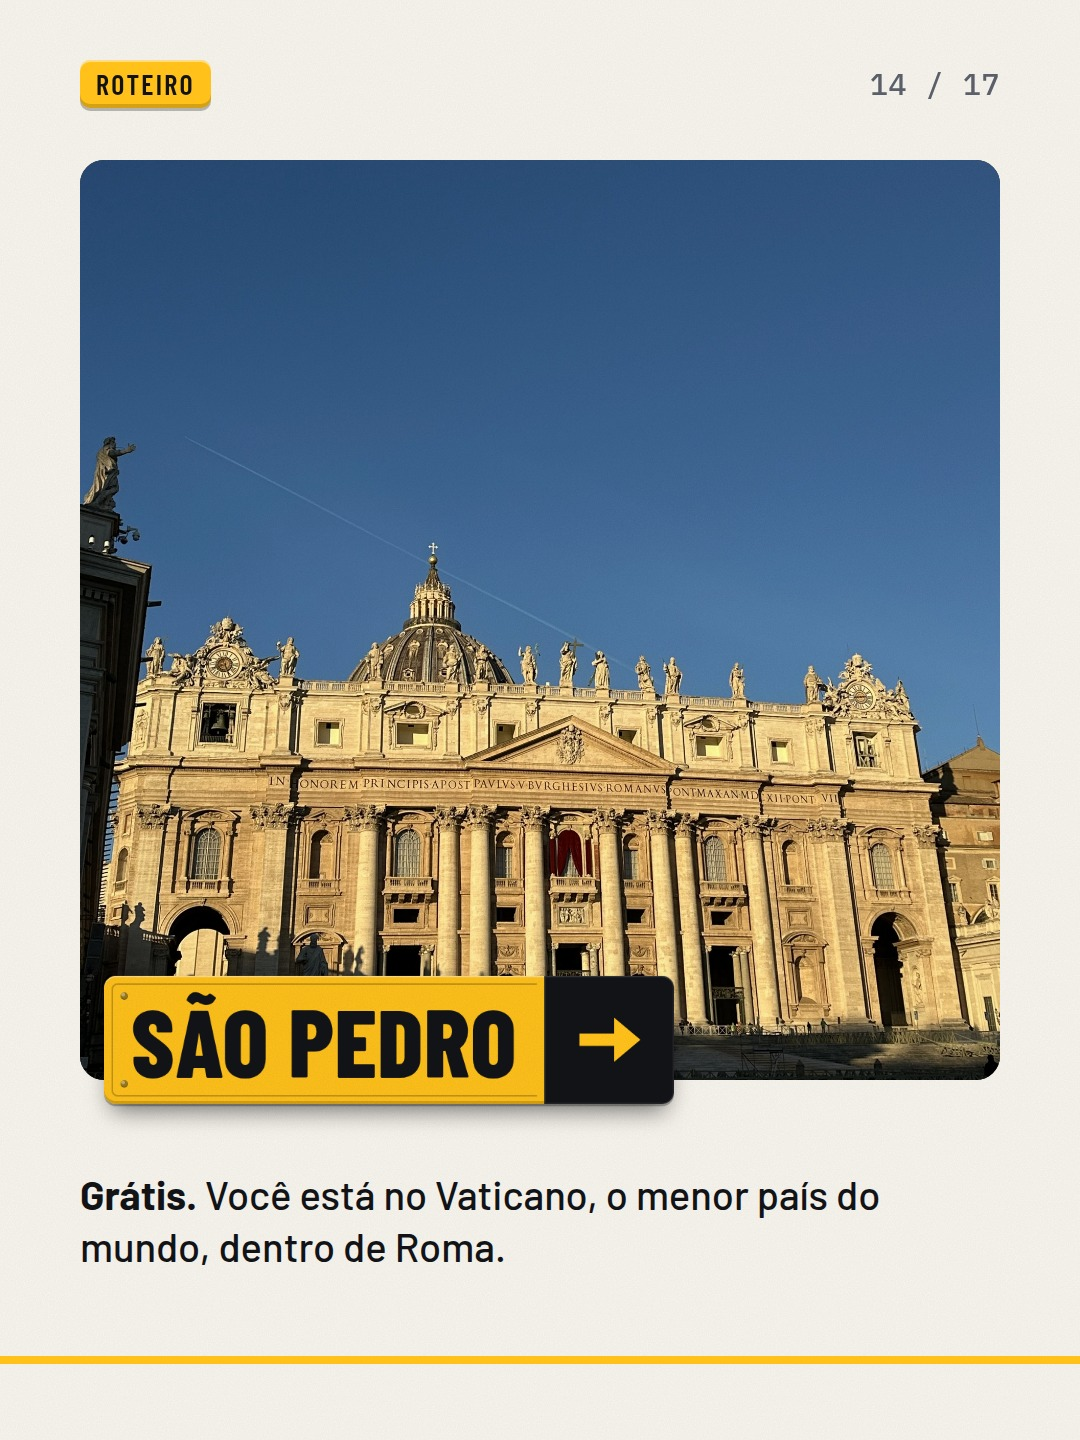
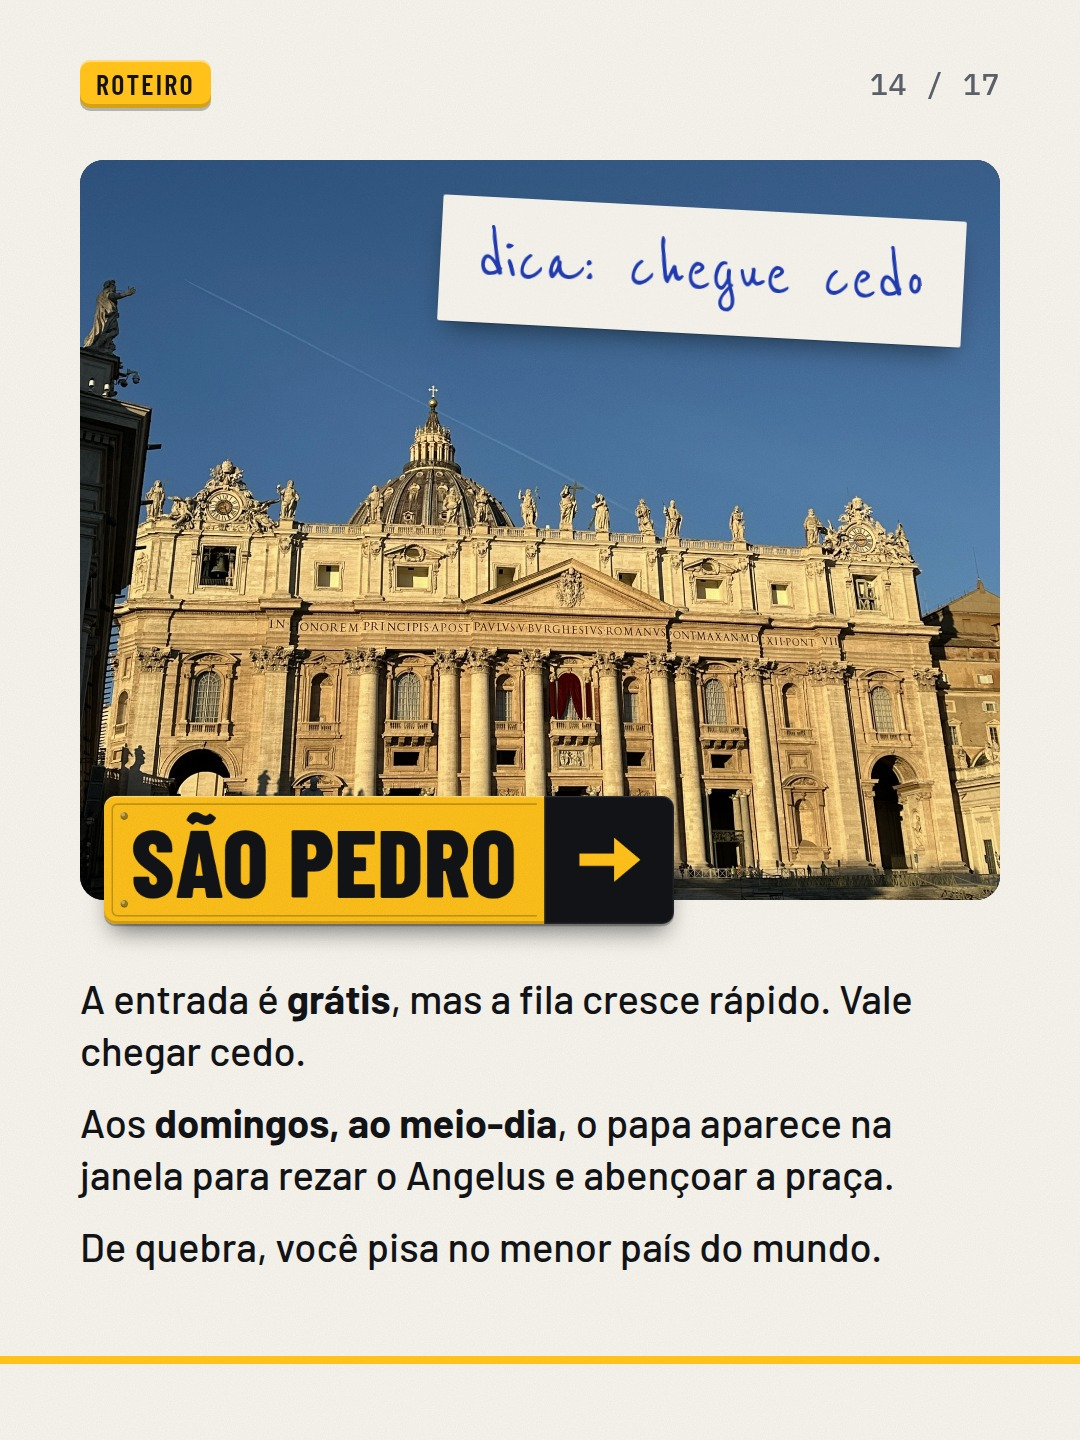
feat(carrosseis): dicas do Coliseu e do Vaticano e ajuste do símbolo 1º no Roma REV1
Claude-Session: https://claude.ai/code/session_01Py887dPkqPsegoR8ZeTqVh

diff --git a/carrosseis/roma-3-dias/rev1/slides.html b/carrosseis/roma-3-dias/rev1/slides.html
@@ -184,10 +184,10 @@ body{margin:0;background:#26292F}
 <!-- COLISEU + DICA -->
 <section class="slide pd-paper" id="s11">
   <div class="serie">Roteiro</div><div class="count">11 / 17</div>
-  <div class="photo"><img src="../fonte/coliseu_dia.jpg" style="object-position:50% 80%"></div>
+  <div class="photo" style="height:740px"><img src="../fonte/coliseu_dia.jpg" style="object-position:50% 80%"></div>
   <div class="pd-note pd-paper" style="left:400px;top:208px;z-index:25"><span class="pd-note__t">dica: compre cedo</span></div>
-  <div class="pd-plate pd-plate--one placaP"><div class="pd-plate__face"><i class="pd-rivet t"></i><i class="pd-rivet b"></i><div class="pd-plate__dest">Coliseu</div></div><div class="pd-plate__mod"><svg viewBox="0 0 100 100"><path fill="currentColor" d="M8 41h50V18l38 32-38 32V59H8z"/></svg></div></div>
-  <p class="legenda">Ingresso com arena: abre <b>7 dias antes</b>. Com subterrâneo: <b>30 dias antes</b>, e eu não consegui. Compre em colosseo.it.</p>
+  <div class="pd-plate pd-plate--one placaP" style="bottom:516px"><div class="pd-plate__face"><i class="pd-rivet t"></i><i class="pd-rivet b"></i><div class="pd-plate__dest">Coliseu</div></div><div class="pd-plate__mod"><svg viewBox="0 0 100 100"><path fill="currentColor" d="M8 41h50V18l38 32-38 32V59H8z"/></svg></div></div>
+  <p class="legenda" style="top:972px">O ingresso com arena abre <b>7 dias antes</b>. Subterrâneo e ático, o andar mais alto, abrem <b>30 dias antes</b> e esgotam rápido. Eu não consegui.<br><br>No <b>1º domingo do mês</b>, a entrada padrão é grátis, mas sem arena, subterrâneo e ático.</p>
   <div class="rota"></div><div class="grain"></div>
 </section>
 
@@ -234,9 +234,10 @@ body{margin:0;background:#26292F}
 <!-- SÃO PEDRO -->
 <section class="slide pd-paper" id="s14">
   <div class="serie">Roteiro</div><div class="count">14 / 17</div>
-  <div class="photo"><img src="../fonte/sao_pedro.jpg" style="object-position:50% 60%"></div>
-  <div class="pd-plate pd-plate--one placaP"><div class="pd-plate__face"><i class="pd-rivet t"></i><i class="pd-rivet b"></i><div class="pd-plate__dest">São Pedro</div></div><div class="pd-plate__mod"><svg viewBox="0 0 100 100"><path fill="currentColor" d="M8 41h50V18l38 32-38 32V59H8z"/></svg></div></div>
-  <p class="legenda"><b>Grátis.</b> Você está no Vaticano, o menor país do mundo, dentro de Roma.</p>
+  <div class="photo" style="height:740px"><img src="../fonte/sao_pedro.jpg" style="object-position:50% 70%"></div>
+  <div class="pd-note pd-paper" style="left:440px;top:208px;z-index:25"><span class="pd-note__t">dica: chegue cedo</span></div>
+  <div class="pd-plate pd-plate--one placaP" style="bottom:516px"><div class="pd-plate__face"><i class="pd-rivet t"></i><i class="pd-rivet b"></i><div class="pd-plate__dest">São Pedro</div></div><div class="pd-plate__mod"><svg viewBox="0 0 100 100"><path fill="currentColor" d="M8 41h50V18l38 32-38 32V59H8z"/></svg></div></div>
+  <div class="legenda" style="top:972px"><p style="margin:0 0 20px">A entrada é <b>grátis</b>, mas a fila cresce rápido. Vale chegar cedo.</p><p style="margin:0 0 20px">Aos <b>domingos, ao meio-dia</b>, o papa aparece na janela para rezar o Angelus e abençoar a praça.</p><p style="margin:0">De quebra, você pisa no menor país do mundo.</p></div>
   <div class="rota"></div><div class="grain"></div>
 </section>
 
@@ -262,13 +263,17 @@ body{margin:0;background:#26292F}
 <section class="slide pd-paper" id="s17">
   <div class="serie">Roteiro</div><div class="count">17 / 17</div>
   <h2 class="h2">Roma em 3 dias: € 421,50<small>por pessoa · ≈ R$ 2.698 · hotel incluso</small></h2>
-  <div class="pd-note pd-paper" style="left:120px;top:540px"><span class="pd-note__t">o que não pula:</span><span class="pd-note__t">fórum, coliseu</span><span class="pd-note__t">e palatino.</span>
+  <div class="pd-note pd-paper" style="left:120px;top:400px"><span class="pd-note__t">o que não pula:</span><span class="pd-note__t">fórum, coliseu</span><span class="pd-note__t">e palatino.</span>
     <svg class="mark" style="right:-74px;top:-40px;width:110px;height:110px;color:#147A44" viewBox="0 0 110 110"><path d="M22 58l20 22 46-56"/><path d="M55 4C20 4 4 30 6 56s26 50 54 48 46-24 44-52S84 2 50 6"/></svg></div>
-  <div class="pd-plate pd-plate--s pd-plate--one" style="left:80px;top:1000px;transform-origin:0 0;scale:.75">
+  <div class="body" style="position:absolute;left:80px;top:720px;width:920px;font-size:40px">
+    <p style="margin:0 0 24px">Compre os ingressos no <b>site oficial</b>. Costuma sair mais barato do que nas agências.</p>
+    <p style="margin:0">No <b>Vaticano</b>, chegue cedo. A entrada é grátis, mas a fila cresce rápido.</p>
+  </div>
+  <div class="pd-plate pd-plate--s pd-plate--one" style="left:80px;top:1040px;transform-origin:0 0;scale:.75">
     <div class="pd-plate__face"><i class="pd-rivet t"></i><i class="pd-rivet b"></i><div class="pd-plate__dest">Salva pra viagem</div></div>
     <div class="pd-plate__mod"><svg viewBox="0 0 100 100"><path fill="currentColor" d="M8 41h50V18l38 32-38 32V59H8z"/></svg></div>
   </div>
-  <svg class="pd-one" viewBox="0 0 100 100" style="position:absolute;left:904px;top:1264px;height:96px;z-index:25" aria-label="1º"><path class="num" fill="#121317" d="M26 4h22v96H26V30l-14 7V16z"/><g><circle class="sun" cx="76" cy="17" r="15" fill="#FFC21A"/></g><rect class="bar" x="58.7" y="38" width="34.5" height="5.5" fill="#FFC21A"/></svg>
+  <svg class="pd-one" viewBox="0 0 100 100" style="position:absolute;left:904px;top:1168px;height:96px;z-index:25" aria-label="1º"><path class="num" fill="#121317" d="M26 4h22v96H26V30l-14 7V16z"/><g><circle class="sun" cx="76" cy="17" r="15" fill="#FFC21A"/></g><rect class="bar" x="58.7" y="38" width="34.5" height="5.5" fill="#FFC21A"/></svg>
   <div class="rota"></div><div class="grain"></div>
 </section>
 

diff --git a/carrosseis/roma-3-dias/rev1/QA_REV1.md b/carrosseis/roma-3-dias/rev1/QA_REV1.md
@@ -68,3 +68,9 @@ Não vieram: interior do Panteão e foto no espelho.
 - Os "$" das anotações são euro; todos os valores são por pessoa; o € 1,00 do espelho de Sant'Ignazio foi pago.
 - O pai do Diego autoriza o uso da foto da capa.
 - **Música:** sim, da biblioteca do Instagram, adicionada no app na hora de postar. Motivo: carrossel com música pode aparecer na aba Reels (Mosseri, 17/10/2024). Critério: instrumental, sem letra competindo com a leitura, no tom da marca. O DS não cobre música em carrossel; registrar em Aprendizados ("carrossel com música") para comparar com os próximos.
+
+## Ajustes de 05/10/2026 (pedido do Diego)
+
+- **Slide 11 (Coliseu):** venda com arena 7 dias antes; subterrâneo e ático (Full Experience Attico, andares mais altos, com elevador panorâmico) 30 dias antes. O nome oficial do andar mais alto é "ático" (Attico), não "terraço": terraços panorâmicos já estão no ingresso padrão. 1º domingo do mês: entrada padrão grátis, sem arena, subterrâneo e níveis superiores (colosseo.it, aviso de entrada gratuita).
+- **Slide 14 (São Pedro):** dica de chegar cedo (fila) e Angelus aos domingos ao meio-dia, da janela do Palácio Apostólico (vatican.va).
+- **Slide 17:** dicas do site oficial e do Vaticano; símbolo 1º subiu para y 1168, acima da Rota.
